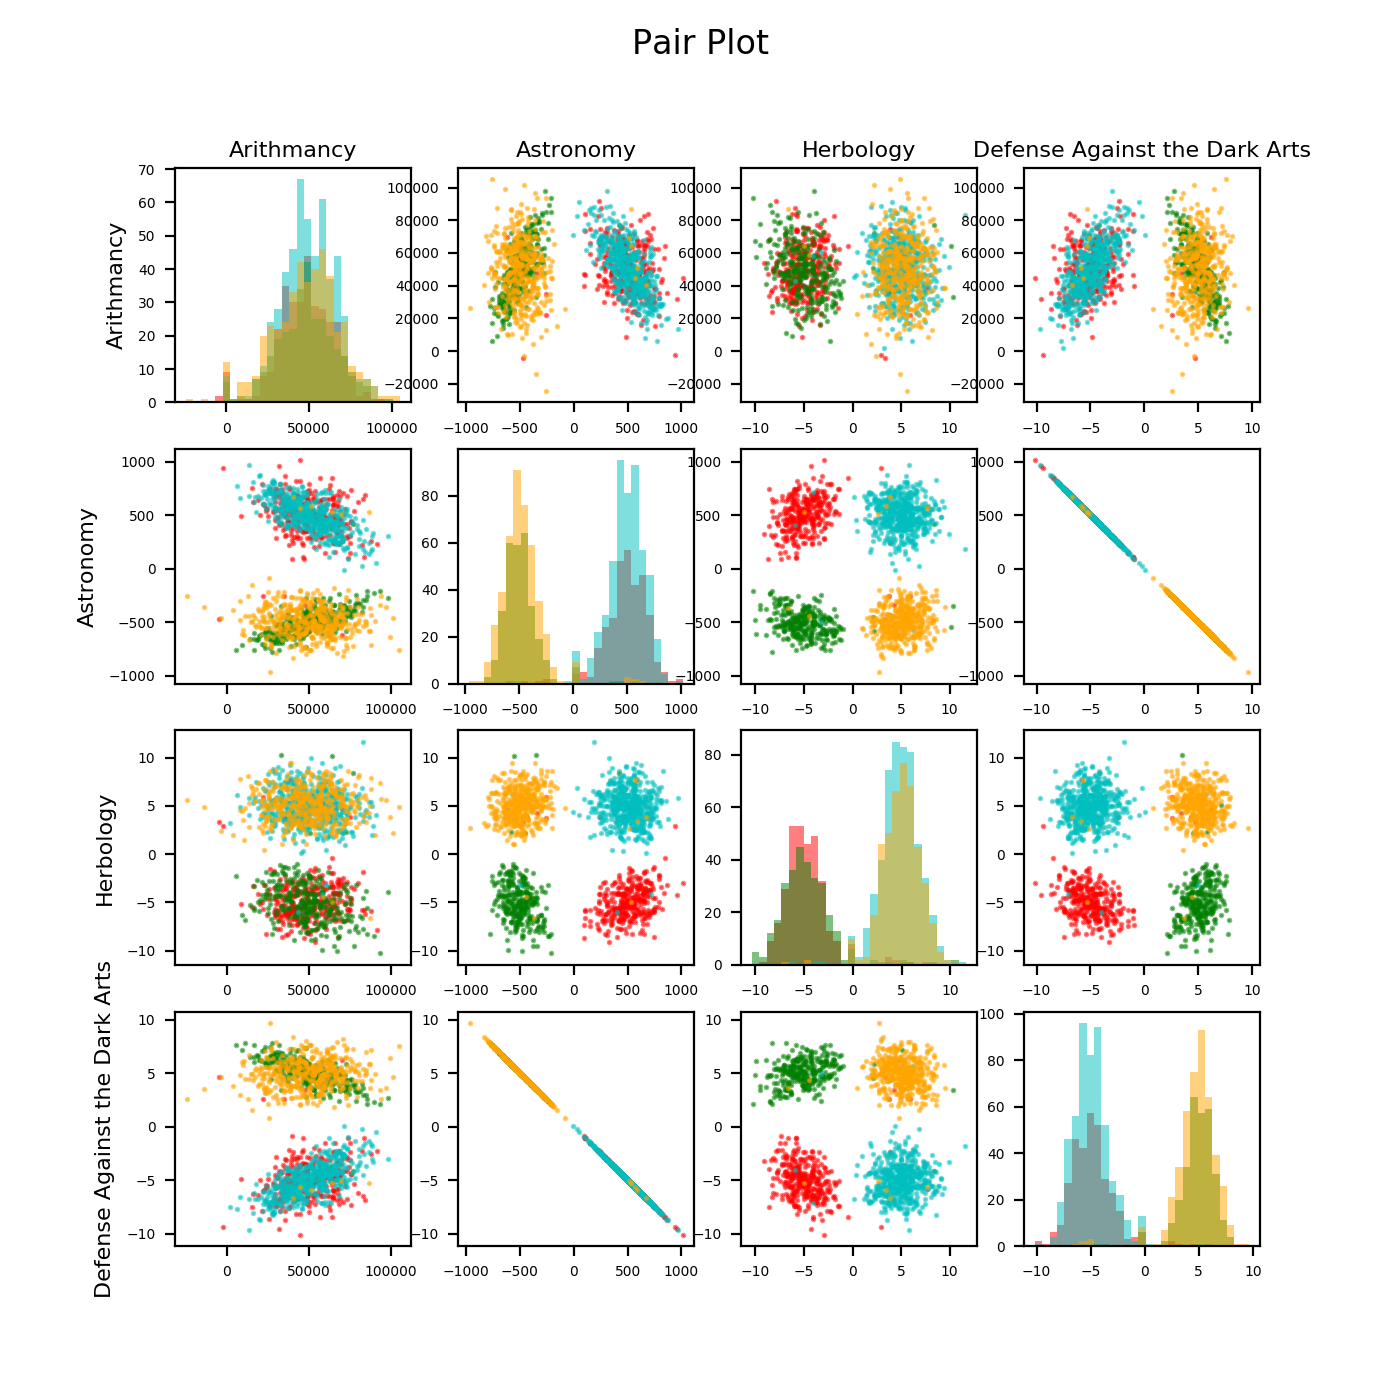
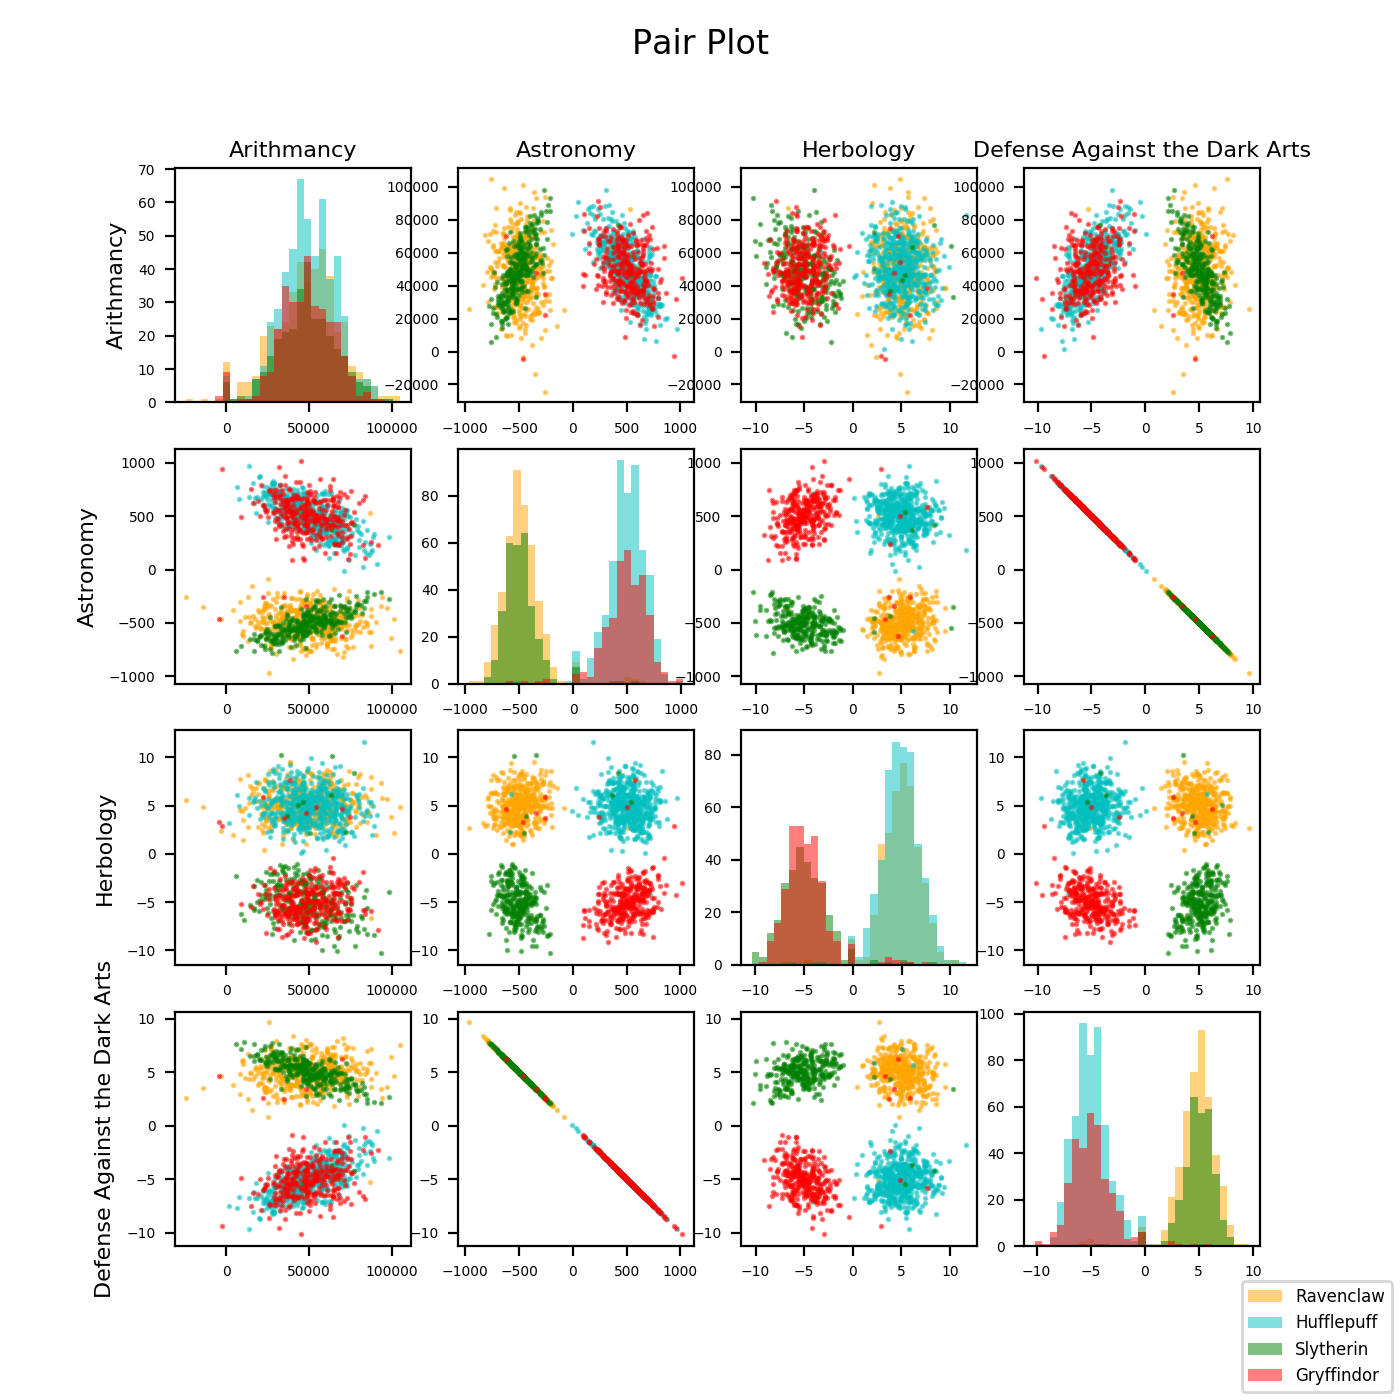
added the labels to the pair plot

diff --git a/pair_plot.py b/pair_plot.py
@@ -25,8 +25,6 @@ class PairPlot:
 
     def Plot(self):
 
-        # ajouter les labels
-
         plt.figure(figsize=self.fig_size)
         SMALL_SIZE = 5
         plt.rc('xtick', labelsize=SMALL_SIZE)
@@ -51,7 +49,8 @@ class PairPlot:
                     sc = ScatterPlotPerHouse(path_to_data_set=self.path_to_data_set, legend=False, size=1)
                     sc.Plot(self.numeric_features[j],self.numeric_features[i])
 
-
+        handles, labels = ax.get_legend_handles_labels()
+        plt.figlegend(handles, labels, loc='lower right', prop={'size': 6})
 
 
 if __name__=='__main__':
@@ -59,7 +58,7 @@ if __name__=='__main__':
 
     try:
         max_nb_features = int(sys.argv[1])
-        fig_size = (int(sys.argv[2]),int(sys.argv[3]))
+        fig_size = (int(sys.argv[2]), int(sys.argv[3]))
 
         pp = PairPlot(max_nb_features=max_nb_features, fig_size=fig_size)
         pp.extractNumericFeatures()
